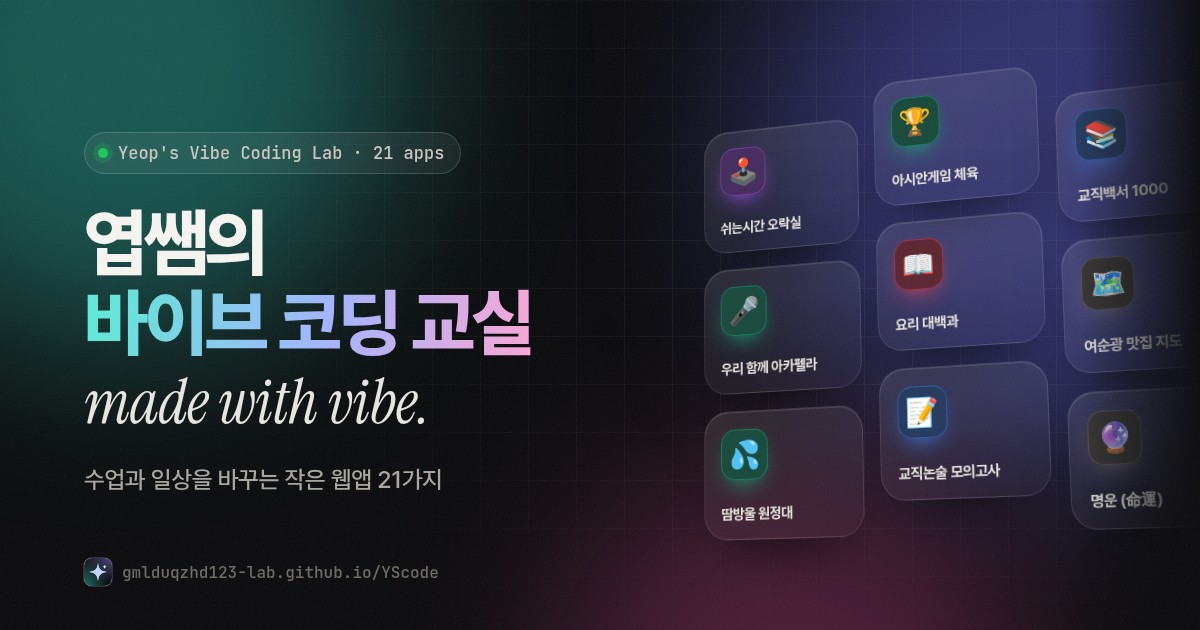
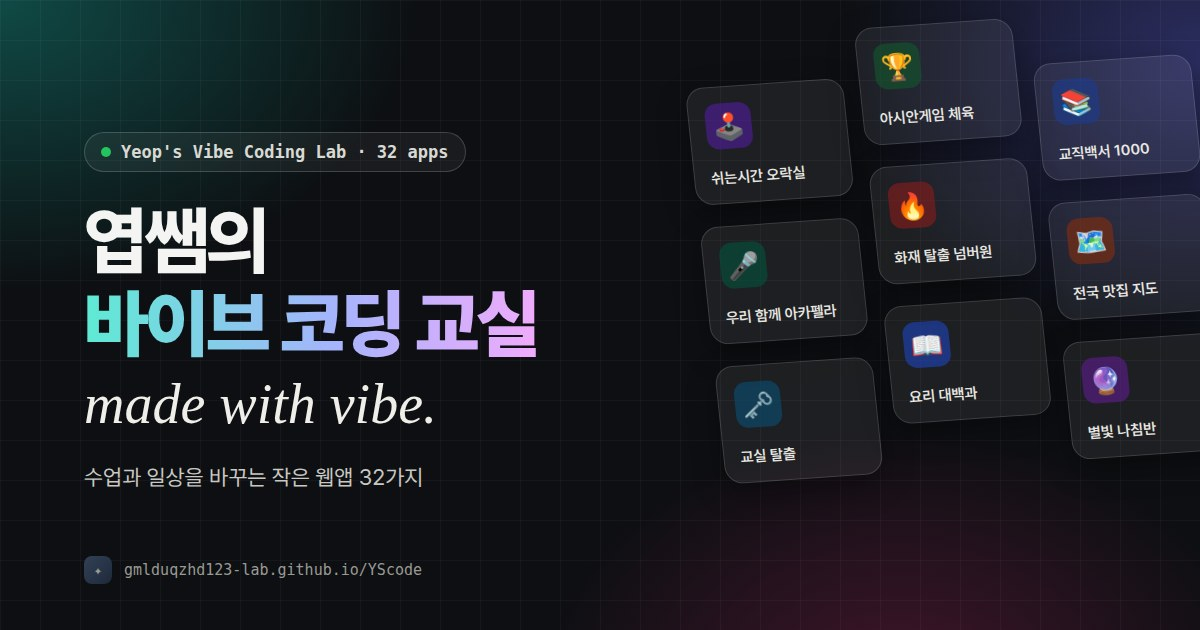
모음집 공유 미리보기 갱신, 매쓰 서바이벌 썸네일 3.0 (#51)
- og-image.jpg: '21 apps'와 옛 이름(여순광 맛집 지도, 명운)을 32개·전국 맛집 지도·별빛 나침반 등 현재 앱으로 다시 그림
- og:description·og:image:alt의 21가지 → 32가지, 이미지 주소에 ?v=20261026
- 매쓰 서바이벌 카드 썸네일 2.1 → 3.0 (앱 공유 제목과 같게)

Claude-Session: https://claude.ai/code/session_01NaW5r8WBzNy5B2e9iMgdZz

diff --git a/index.html b/index.html
@@ -16,18 +16,18 @@
     <meta name="apple-mobile-web-app-status-bar-style" content="black-translucent">
     <meta property="og:type" content="website">
     <meta property="og:title" content="엽쌤의 바이브 코딩 교실">
-    <meta property="og:description" content="수업과 일상을 바꾸는 작은 웹앱 21가지 · 설치 없이 바로 열려요">
+    <meta property="og:description" content="수업과 일상을 바꾸는 작은 웹앱 32가지 · 설치 없이 바로 열려요">
     <meta property="og:site_name" content="엽쌤스쿨">
-    <meta property="og:image" content="https://gmlduqzhd123-lab.github.io/YScode/og-image.jpg">
-    <meta property="og:image:secure_url" content="https://gmlduqzhd123-lab.github.io/YScode/og-image.jpg">
+    <meta property="og:image" content="https://gmlduqzhd123-lab.github.io/YScode/og-image.jpg?v=20261026">
+    <meta property="og:image:secure_url" content="https://gmlduqzhd123-lab.github.io/YScode/og-image.jpg?v=20261026">
     <meta property="og:image:type" content="image/jpeg">
     <meta property="og:image:width" content="1200">
     <meta property="og:image:height" content="630">
-    <meta property="og:image:alt" content="엽쌤의 바이브 코딩 교실 — 웹앱 21가지">
+    <meta property="og:image:alt" content="엽쌤의 바이브 코딩 교실 — 웹앱 32가지">
     <meta property="og:url" content="https://gmlduqzhd123-lab.github.io/YScode/">
     <meta property="og:locale" content="ko_KR">
     <meta name="twitter:card" content="summary_large_image">
-    <meta name="twitter:image" content="https://gmlduqzhd123-lab.github.io/YScode/og-image.jpg">
+    <meta name="twitter:image" content="https://gmlduqzhd123-lab.github.io/YScode/og-image.jpg?v=20261026">
     <script>
         // 첫 화면이 그려지기 전에 테마를 적용해 깜빡임 방지
         (function () {
@@ -820,7 +820,7 @@
             },
             {
                 id: 'math-survival',
-                cover: 'covers/math-survival.jpg',
+                cover: 'covers/math-survival.jpg?v=20261026',
                 accent: '#22c55e',
                 name: '매쓰 서바이벌',
                 category: '수업용',
